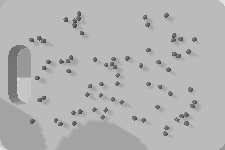
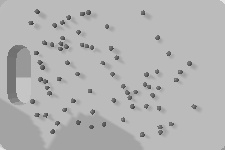
Working Version 1

diff --git a/simulate_task.py b/simulate_task.py
@@ -4,10 +4,21 @@ import pybullet_data
 import numpy as np
 import time
 import robot_helper as helper
+from scipy.spatial.transform import Rotation as R
 ############ GLOBAL VARIABLES #################
 BOARD_DIMS = np.array((0.381, 0.304))
 FIXED_ROTATION = [1, 0, 0, 0]
 MOVABLE_JOINT_NUMBERS = range(7)
+VIEWMATRIX = p.computeViewMatrix(
+    cameraEyePosition=[0, 0, 0.6],
+    cameraTargetPosition=[0, 0, 0],
+    cameraUpVector=[0, 1, 0])
+
+PROJECTIONMATRIX = p.computeProjectionMatrixFOV(
+    fov=45,
+    aspect=helper.WIDTH / helper.HEIGHT,
+    nearVal=0.02,
+    farVal=1)
 
 # p.resetSimulation(pb_utils.CLIENT)
 pb_utils.connect(use_gui=True)
@@ -51,59 +62,55 @@ for i in range(-1, 10):
 # knife = p.loadURDF("./URDFs/knife.urdf", -0.1, -0.1, 0.05, 0.000000, 0.000000, 0.000000, 1.000000)
 
 
-def go_to_position(robot, pos):
-    desired_joints = helper.inverse_kinematics(robot, pos, FIXED_ROTATION)
+def go_to_position(robot, pos, rot = FIXED_ROTATION):
+    print(pos, rot)
+    desired_joints = helper.inverse_kinematics(robot, pos, rot)
     helper.control_joints(robot, MOVABLE_JOINT_NUMBERS, desired_joints, velocity_scale=1)
 
-
-def sweep_over_chopping_board(robot, board):
+def initialize_robot_arm(robot, board):
     board_pos = helper.get_obj_com_position(board)
-    board_pos[2] += 0.02
+    board_pos[2] += 0.1
+    board_pos[:2] -= BOARD_DIMS/2
+    go_to_position(robot, board_pos)
+
+def sweep_over_chopping_board(robot, x, y, theta, l, z = 0.02):
+    theta = theta/180*np.pi
+    r = R.from_euler('y', theta)
+    rotation = r.as_quat()
+    # rotation = rotation[1:]+rotation[:1]
+    print(rotation)
+    go_to_position(robot, [x,y,0.1], FIXED_ROTATION)
+    time.sleep(0.5)
+    go_to_position(robot, [x,y,z], FIXED_ROTATION)
+    time.sleep(0.5)
+    go_to_position(robot, [x+np.cos(theta)*l, y+np.sin(theta)*l, z], FIXED_ROTATION)
+    time.sleep(0.5)
+    go_to_position(robot, [x+np.cos(theta)*l, y+np.sin(theta)*l, 0.1], FIXED_ROTATION)
+
+def get_outta_the_way(robot, board):
+    board_pos = helper.get_obj_com_position(board)
+    board_pos[2] += 0.1
     board_pos[:2] -= BOARD_DIMS/2
     go_to_position(robot, board_pos)
 
 
-    
-
-sweep_over_chopping_board(franka, cutting_board)
-
-
 amount_to_move = 0.05  # 5cm
-FIXED_ROTATION = (0, 0, 0, 1)
+# FIXED_ROTATION = (0, 0, 0, 1)
 MOVABLE_JOINT_NUMBERS = [0, 1, 2, 3, 4, 5, 6]
 pos = helper.get_gripper_position(franka)
 while True:
-    imgs = p.getCameraImage(width=helper.WIDTH,height=helper.HEIGHT,viewMatrix=viewMatrix,projectionMatrix=projectionMatrix, renderer=p.ER_BULLET_HARDWARE_OPENGL)
-    # key_pressed = helper.wait_and_get_pressed_key()
-    # if key_pressed == "w":
-    #     print("Moving backward")
-    #     # TODO move robot 5cm backward (in the negative x direction)
-    #     pos[0] -= amount_to_move
-    # elif key_pressed == "s":
-    #     print("Moving forward")
-    #     # TODO move robot 5cm forward (in the positive x direction)
-    #     pos[0] += amount_to_move
-    # elif key_pressed == "d":
-    #     print("Moving robot to the right")
-    #     # TODO move robot 5cm to the right (positive y direction)
-    #     pos[1] += amount_to_move
-    # elif key_pressed == "a":
-    #     print("Moving robot to the left")
-    #     # TODO move robot 5cm to the left (negative y direction)
-    #     pos[1] -= amount_to_move
-    # elif key_pressed == "q":
-    #     print("Moving robot up")
-    #     # TODO move robot 5cm up (positive z direction)
-    #     pos[2] += amount_to_move
-    # elif key_pressed == "e":
-    #     print("Moving robot down")
-    #     # TODO move robot 5cm down (negative z direction)
-    #     pos[2] -= amount_to_move
-    # elif key_pressed == "o":
-    #     helper.plot_images(imgs)
+    initialize_robot_arm(franka, cutting_board)
+    # Initialize Click Image
+    imgs = p.getCameraImage(width=helper.WIDTH,height=helper.HEIGHT,viewMatrix=VIEWMATRIX,projectionMatrix=PROJECTIONMATRIX, renderer=p.ER_BULLET_HARDWARE_OPENGL)
+    helper.plot_images(imgs)
+    # Sample possible starting point and orientation of gripper
+    # Move gripper by random distance l
+    x, y, theta, l = -0.01, -0.01, 90, 0.15
+    sweep_over_chopping_board(franka, x, y, theta, l, z = 0.02)
 
-    # desired_joints = helper.inverse_kinematics(franka, pos, FIXED_ROTATION)
-    # helper.control_joints(franka, [0, 1, 2, 3, 4, 5, 6], desired_joints)
+    # Take arm out of sight and click picture
+    get_outta_the_way(franka, cutting_board)
+    imgs = p.getCameraImage(width=helper.WIDTH,height=helper.HEIGHT,viewMatrix=VIEWMATRIX,projectionMatrix=PROJECTIONMATRIX, renderer=p.ER_BULLET_HARDWARE_OPENGL)
+    helper.plot_images(imgs)
 
-    while True:
-        p.stepSimulation(pb_utils.CLIENT)
+    p.resetSimulation(pb_utils.CLIENT)
